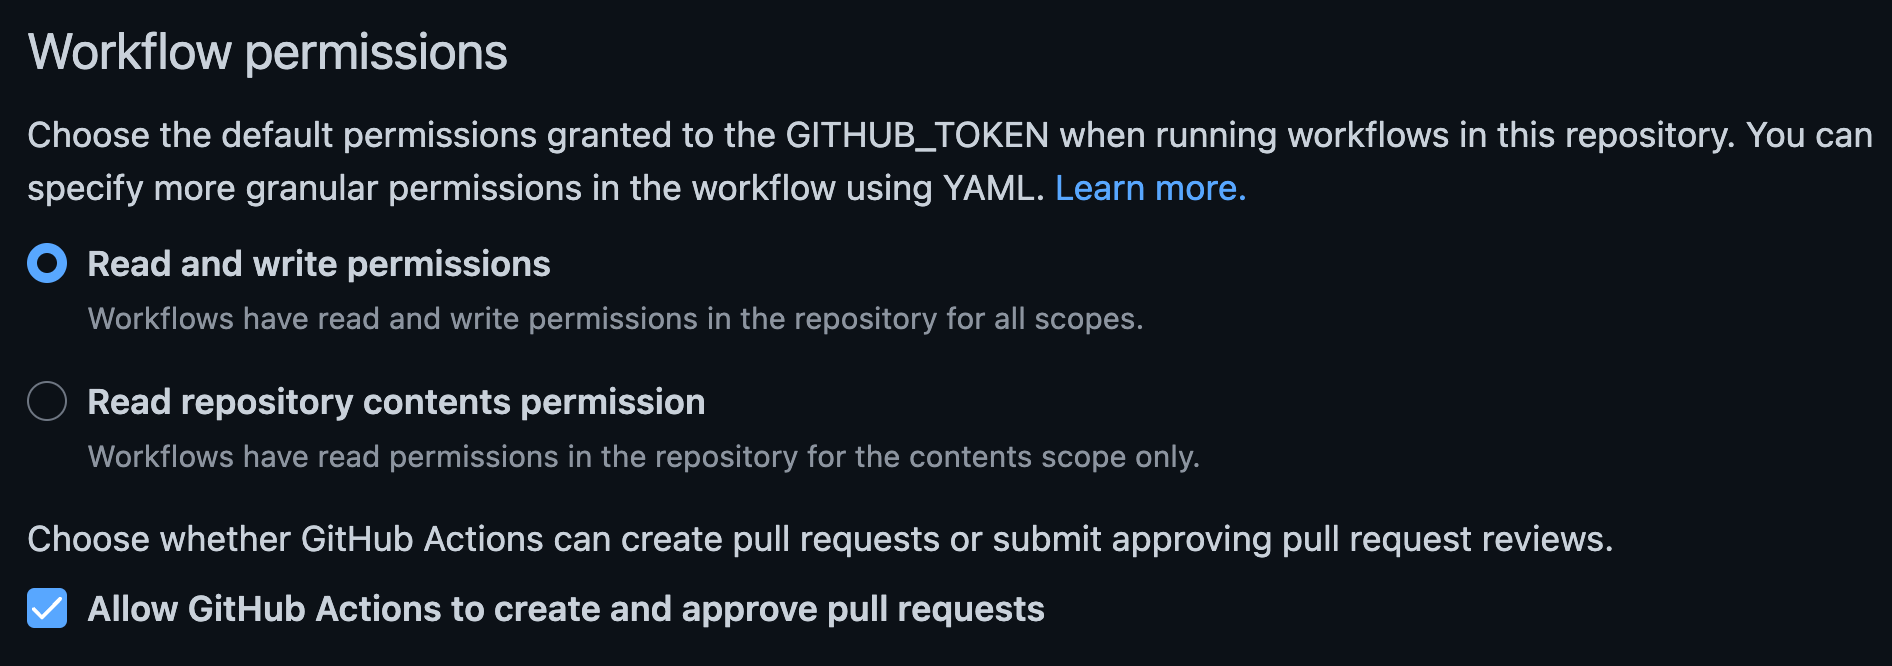
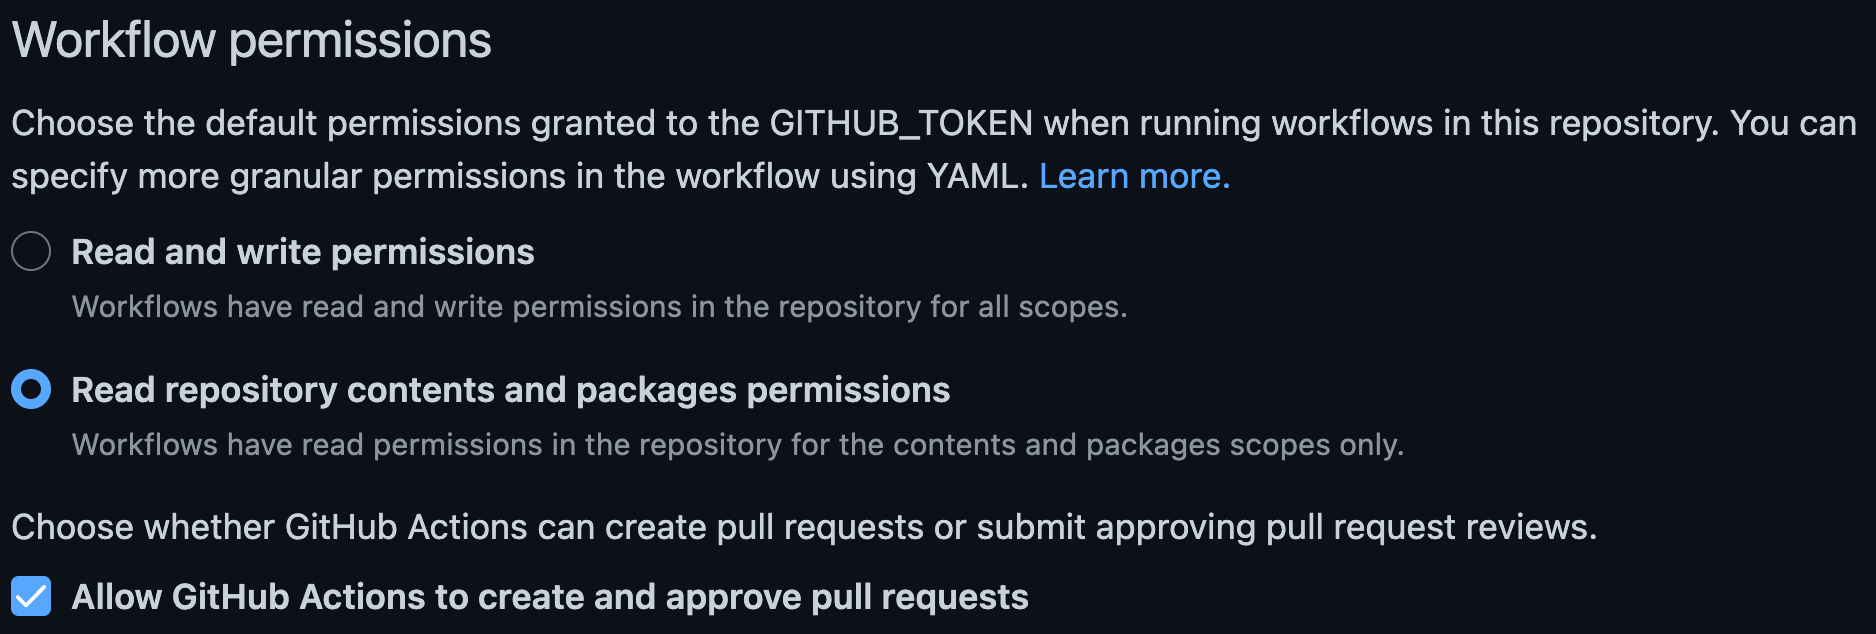
chore(docs): don't require full write permissions (#537)

diff --git a/docs/src/github-action.md b/docs/src/github-action.md
@@ -33,6 +33,10 @@ runs two commands, one after the other:
 ```yaml
 name: Release-plz
 
+permissions:
+  pull-requests: write
+  contents: write
+
 on:
   push:
     branches:
@@ -62,6 +66,10 @@ jobs:
 ```yaml
 name: Release-plz
 
+permissions:
+  pull-requests: write
+  contents: write
+
 on:
   push:
     branches:
@@ -88,6 +96,10 @@ jobs:
 
 ```yaml
 name: Release-plz
+
+permissions:
+  pull-requests: write
+  contents: write
 
 on:
   push:
@@ -118,11 +130,8 @@ jobs:
 
    ![actions settings](actions_settings.png)
 
-2. Change "Workflow permissions" to:
-
-   - Grant read and write permissions (needed to push the PR branch);
-   - Allow GitHub actions to create and approve pull requests
-     (needed to create the PR).
+2. Change "Workflow permissions" to allow GitHub actions to create and approve
+   pull requests (needed to create and update the PR).
 
    ![workflow permission](workflow_permissions.png)
 
